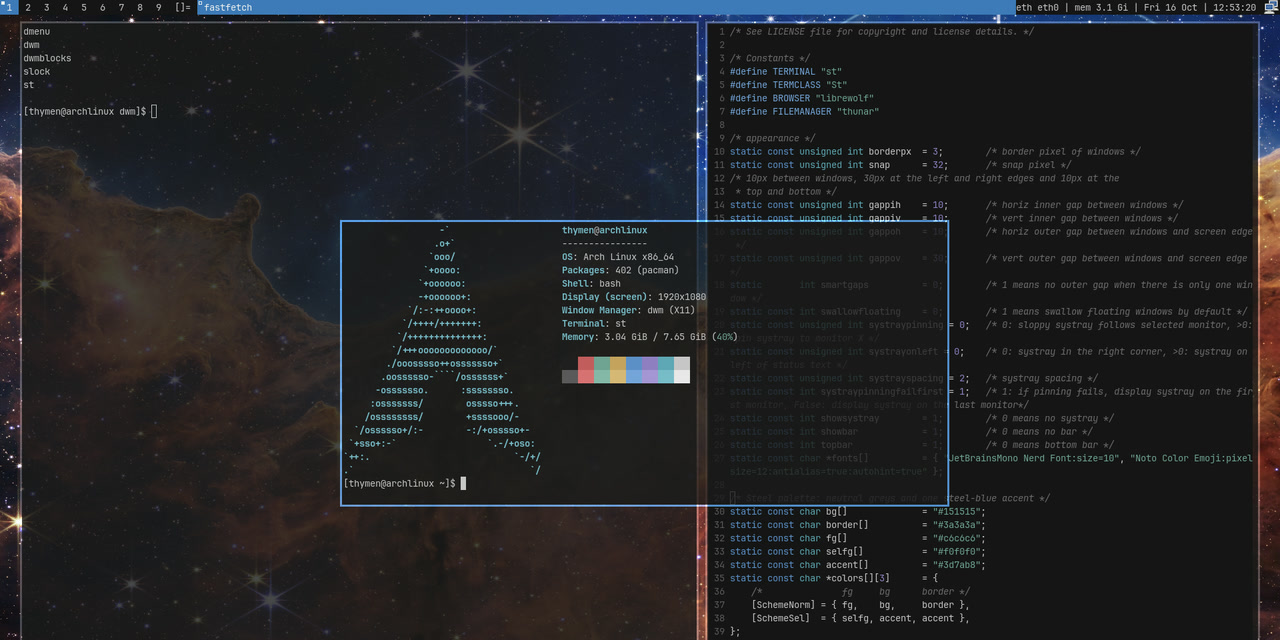
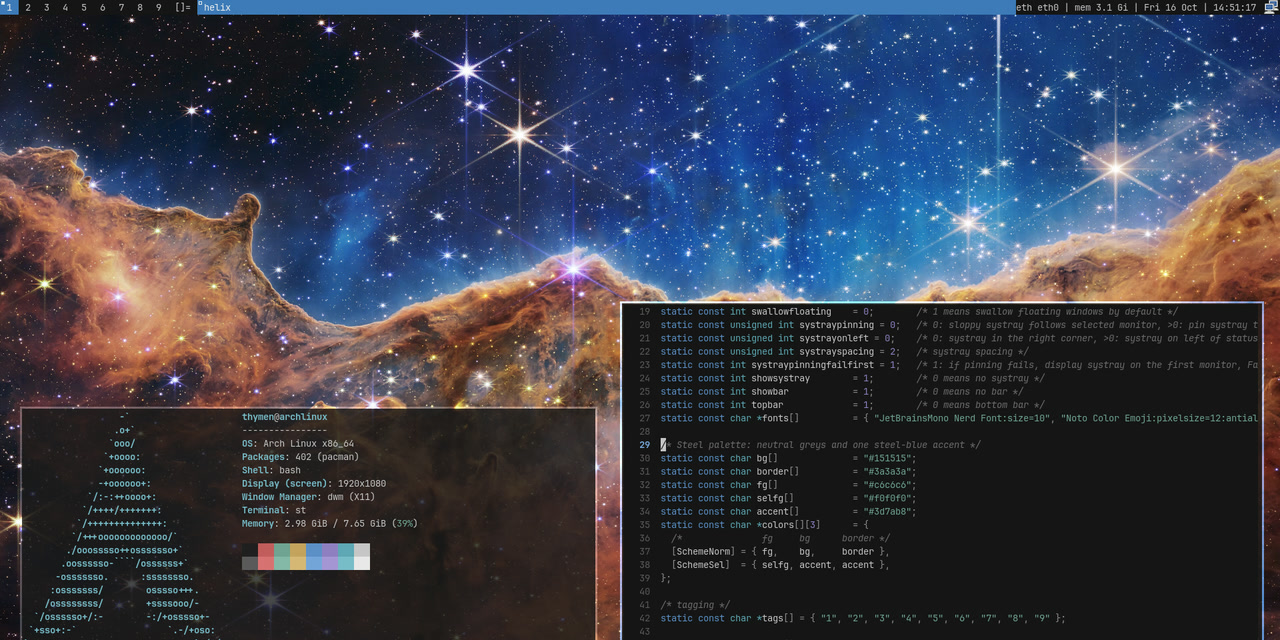
Update screenshot and preview

diff --git a/README.md b/README.md
@@ -1,6 +1,6 @@
 # DWM Auto Rice Bootstrapping Script (DARBS)
 
-![dwm with a floating fastfetch window, Neovim and a shell](screenshot.png)
+![dwm with Helix and fastfetch floating over the Cosmic Cliffs wallpaper](screenshot.png)
 
 My dotfiles for dwm, st, dmenu, slock, dwmblocks and dunst, with Neovim and Helix themes. Everything uses **Steel**: neutral greys with one steel-blue accent. dwm 6.8 has gaps, extra layouts, window swallowing and a plain text status bar you can click; st has scrollback, transparency and clickable URLs.
 
